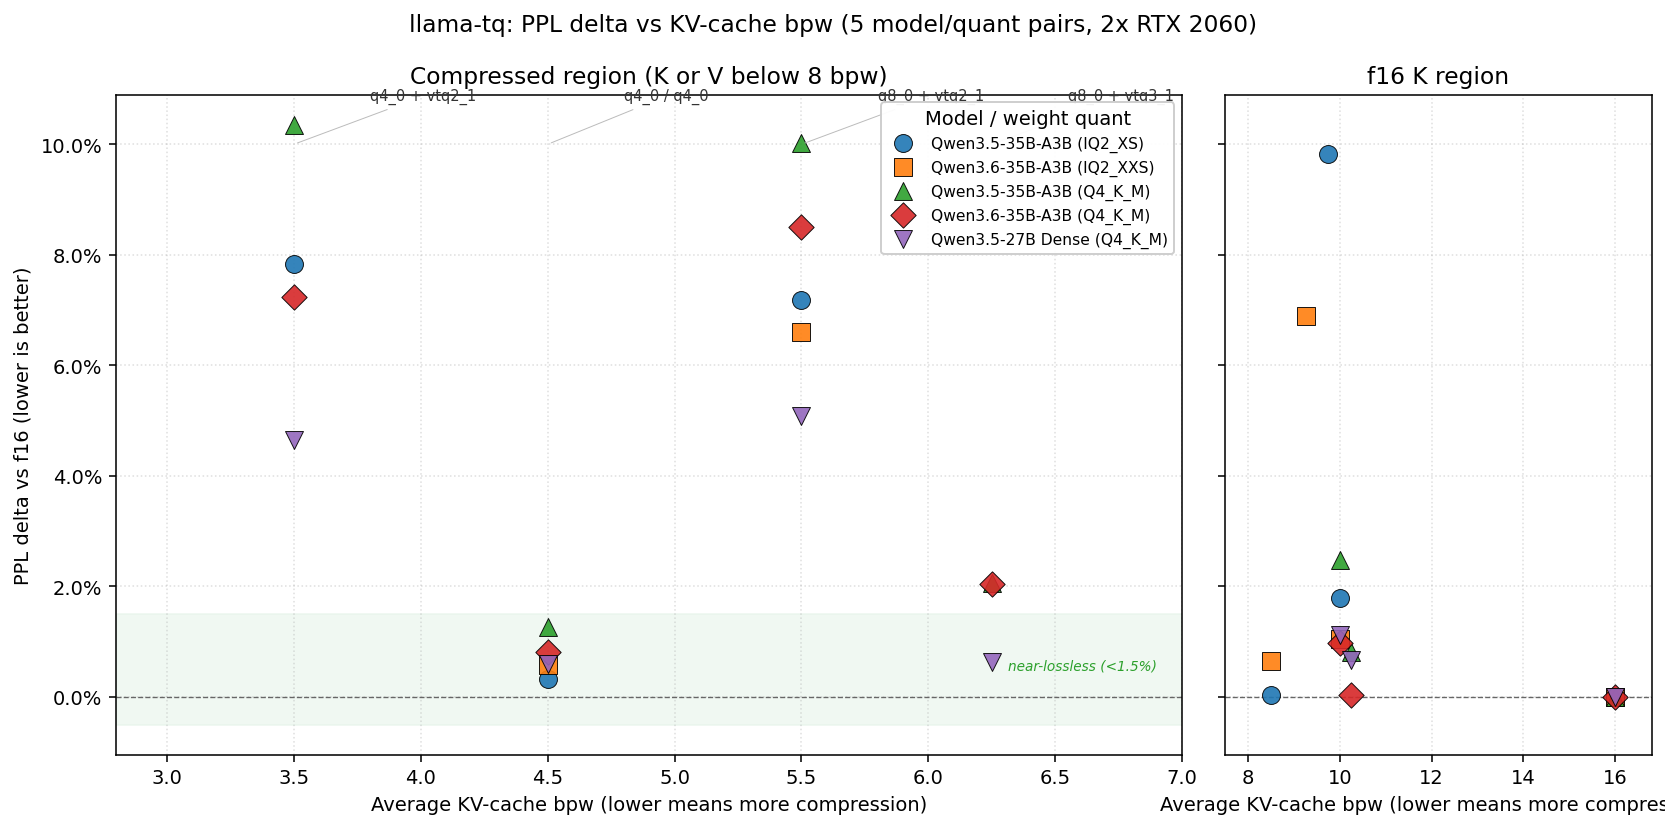
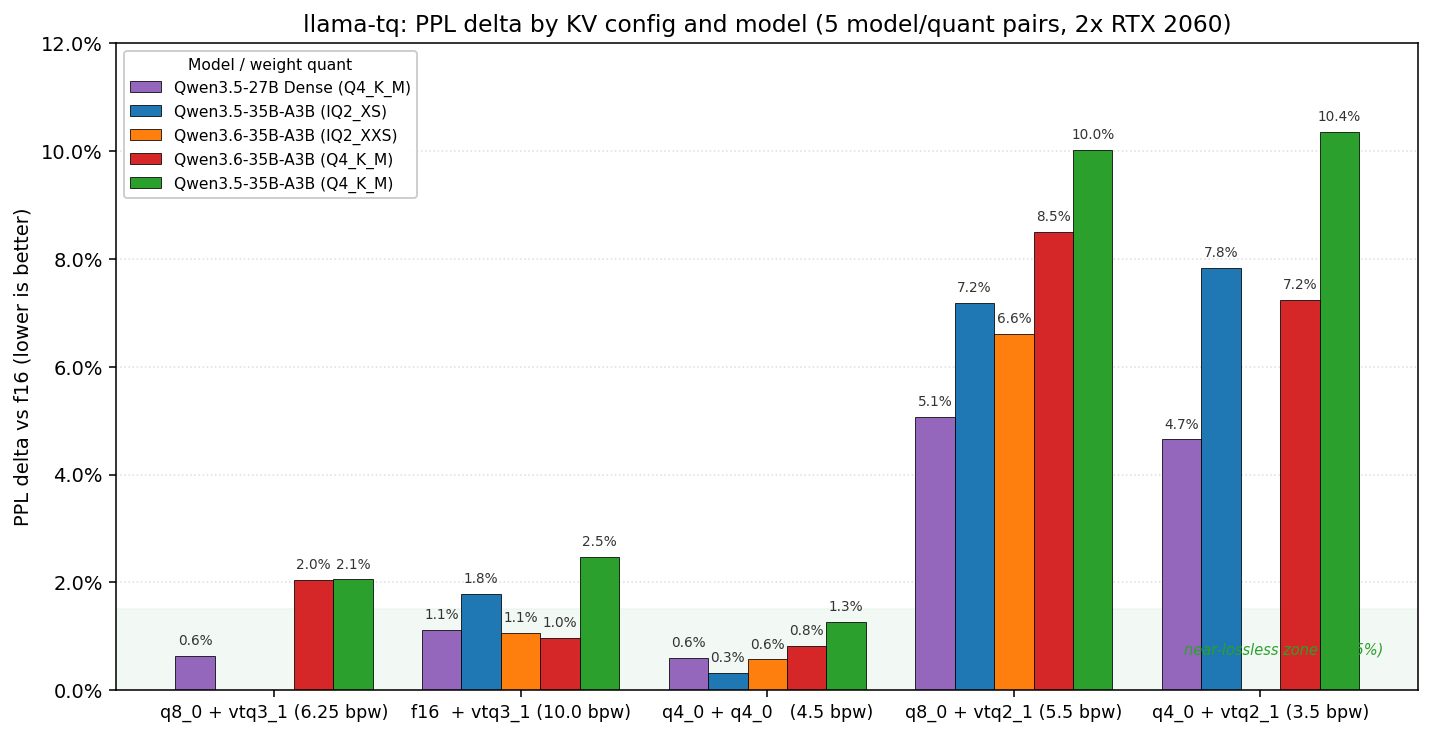
charts: switch to bar charts for readability
- ppl_vs_bpw.png: grouped bar chart (config on x-axis, model = color)
  instead of scatter. Values labeled on top of each bar. Near-lossless
  band highlighted.
- cross_project.png: horizontal bar chart sorted by KV bpw, color = project
  (llama-tq/TheTom/buun). Each row is one explicit config with full label.
  No more overlapping markers or annotations.

diff --git a/bench/plots/gen_charts.py b/bench/plots/gen_charts.py
@@ -45,76 +45,77 @@ def _savefig(name: str, fig):
 # ----------------------------------------------------------------------------
 
 def chart_ppl_vs_bpw():
-    # Two-panel: left = bpw ≤ 7 (compressed region where points cluster),
-    # right = bpw > 7 (f16-K territory, fewer points)
-    fig, (axL, axR) = plt.subplots(1, 2, figsize=(12, 6),
-                                   gridspec_kw={"width_ratios": [3, 1.2]},
-                                   sharey=True)
-
-    markers = {
-        "Qwen3.5-35B-A3B (IQ2_XS)":   ("o", "#1f77b4"),
-        "Qwen3.6-35B-A3B (IQ2_XXS)":  ("s", "#ff7f0e"),
-        "Qwen3.5-35B-A3B (Q4_K_M)":   ("^", "#2ca02c"),
-        "Qwen3.6-35B-A3B (Q4_K_M)":   ("D", "#d62728"),
-        "Qwen3.5-27B Dense (Q4_K_M)": ("v", "#9467bd"),
-    }
-
+    # Grouped bar chart: one group per KV config (sorted by typical avg bpw),
+    # bars within a group = models. Immediately readable.
     have_ppl = df.dropna(subset=["ppl_delta_pct"]).copy()
-    # Rename 'Qwen3.5-27B-Dense' → 'Qwen3.5-27B Dense' for consistency
     have_ppl["model_label"] = have_ppl["model_label"].str.replace(
         "Qwen3.5-27B-Dense", "Qwen3.5-27B Dense"
     )
 
-    for label, (marker, color) in markers.items():
-        sub = have_ppl[have_ppl["model_label"] == label]
-        if sub.empty:
-            continue
-        for ax in (axL, axR):
-            ax.scatter(
-                sub["avg_bpw"], sub["ppl_delta_pct"],
-                marker=marker, color=color, s=85, alpha=0.9,
-                label=label if ax is axL else None,
-                edgecolors="black", linewidth=0.5, zorder=3,
-            )
-
-    # Shade "near-lossless" band on left panel
-    axL.axhspan(-0.5, 1.5, color="#e6f4ea", alpha=0.6, zorder=1,
-                label="_nolegend_")
-    axL.text(6.9, 0.5, "near-lossless (<1.5%)", fontsize=7, color="#2ca02c",
-             ha="right", style="italic")
-
-    # Annotate typical configs (one per cluster, placed outside the point)
-    typical = {
-        3.5:  ("q4_0 + vtq2_1", "3.5 bpw", (0.3, 0.8)),
-        5.5:  ("q8_0 + vtq2_1", "5.5 bpw", (0.3, 0.6)),
-        6.25: ("q8_0 + vtq3_1", "6.25 bpw", (0.3, -1.2)),
-        4.5:  ("q4_0 / q4_0", "4.5 bpw", (0.3, -1.0)),
+    # Only show the representative asymmetric/clean configs (skip broken
+    # KTQ+VTQ and skip redundant f16/f16 baseline which is always 0%)
+    interesting = [
+        ("q8_0/vtq3_1", "q8_0 + vtq3_1 (6.25 bpw)"),
+        ("f16/vtq3_1",  "f16  + vtq3_1 (10.0 bpw)"),
+        ("q4_0/q4_0",   "q4_0 + q4_0   (4.5 bpw)"),
+        ("q8_0/vtq2_1", "q8_0 + vtq2_1 (5.5 bpw)"),
+        ("q4_0/vtq2_1", "q4_0 + vtq2_1 (3.5 bpw)"),
+    ]
+    model_order = [
+        "Qwen3.5-27B Dense (Q4_K_M)",
+        "Qwen3.5-35B-A3B (IQ2_XS)",
+        "Qwen3.6-35B-A3B (IQ2_XXS)",
+        "Qwen3.6-35B-A3B (Q4_K_M)",
+        "Qwen3.5-35B-A3B (Q4_K_M)",
+    ]
+    model_colors = {
+        "Qwen3.5-27B Dense (Q4_K_M)": "#9467bd",
+        "Qwen3.5-35B-A3B (IQ2_XS)":   "#1f77b4",
+        "Qwen3.6-35B-A3B (IQ2_XXS)":  "#ff7f0e",
+        "Qwen3.6-35B-A3B (Q4_K_M)":   "#d62728",
+        "Qwen3.5-35B-A3B (Q4_K_M)":   "#2ca02c",
     }
-    for bpw, (text, _, offset) in typical.items():
-        axL.annotate(text, xy=(bpw, 10), xytext=(bpw + offset[0], 10.8),
-                     fontsize=7.5, color="#333", ha="left",
-                     arrowprops=dict(arrowstyle="-", color="#bbb", lw=0.5))
 
-    for ax in (axL, axR):
-        ax.axhline(0, color="#666", lw=0.7, ls="--", zorder=2)
-        ax.set_xlabel("Average KV-cache bpw (lower means more compression)")
-        ax.yaxis.set_major_formatter(mtick.PercentFormatter(decimals=1))
-        ax.grid(True, ls=":", alpha=0.4, zorder=0)
+    fig, ax = plt.subplots(figsize=(12, 6))
+    n_models = len(model_order)
+    n_configs = len(interesting)
+    width = 0.16
+    x_base = range(n_configs)
 
-    axL.set_ylabel("PPL delta vs f16 (lower is better)")
-    axL.set_xlim(2.8, 7)
-    axR.set_xlim(7.5, 16.8)
-    axL.set_title("Compressed region (K or V below 8 bpw)")
-    axR.set_title("f16 K region")
+    for i, model in enumerate(model_order):
+        vals = []
+        for cfg, _ in interesting:
+            sub = have_ppl[(have_ppl["model_label"] == model)
+                           & (have_ppl["config"] == cfg)]
+            vals.append(sub["ppl_delta_pct"].iloc[0] if not sub.empty else 0)
+        offsets = [xi + (i - (n_models - 1) / 2) * width for xi in x_base]
+        bars = ax.bar(offsets, vals, width, color=model_colors[model],
+                      edgecolor="black", linewidth=0.4, label=model)
+        # Put value on top of each bar
+        for bar, v in zip(bars, vals):
+            if v == 0:
+                continue
+            ax.text(bar.get_x() + bar.get_width() / 2, v + 0.15,
+                    f"{v:.1f}%", ha="center", va="bottom",
+                    fontsize=7, color="#333")
 
-    # Hide duplicated y-axis on right panel
-    axR.tick_params(labelleft=False)
+    # Near-lossless band
+    ax.axhspan(0, 1.5, color="#e6f4ea", alpha=0.5, zorder=0)
+    ax.text(n_configs - 0.5, 0.75, "near-lossless zone (<1.5%)",
+            fontsize=7.5, color="#2ca02c", ha="right",
+            style="italic", va="center")
 
-    fig.suptitle("llama-tq: PPL delta vs KV-cache bpw (5 model/quant pairs, 2x RTX 2060)",
-                 fontsize=12, y=0.98)
-    axL.legend(loc="upper right", fontsize=8, framealpha=0.95,
-               title="Model / weight quant")
-    fig.tight_layout()
+    ax.set_xticks(list(x_base))
+    ax.set_xticklabels([label for _, label in interesting], fontsize=9)
+    ax.set_ylabel("PPL delta vs f16 (lower is better)")
+    ax.yaxis.set_major_formatter(mtick.PercentFormatter(decimals=1))
+    ax.set_title("llama-tq: PPL delta by KV config and model "
+                 "(5 model/quant pairs, 2x RTX 2060)")
+    ax.legend(loc="upper left", fontsize=8, title="Model / weight quant",
+              title_fontsize=8, framealpha=0.95)
+    ax.grid(True, axis="y", ls=":", alpha=0.4, zorder=0)
+    ax.set_axisbelow(True)
+    ax.set_ylim(0, max(12, ax.get_ylim()[1]))
 
     _savefig("ppl_vs_bpw.png", fig)
 
@@ -157,116 +158,103 @@ def chart_decode_throughput():
 # ----------------------------------------------------------------------------
 
 def chart_cross_project():
-    # Show only the representative config per model-quant for llama-tq so the
-    # scatter isn't dominated by near-duplicate points.
+    # Horizontal bar chart: each row is one specific config, sorted by bpw
+    # (most compressed at top). Color = project. No scatter, no overlap.
     have_ppl = df.dropna(subset=["ppl_delta_pct"]).copy()
     have_ppl["model_label"] = have_ppl["model_label"].str.replace(
         "Qwen3.5-27B-Dense", "Qwen3.5-27B Dense"
     )
 
-    # Use the two flagship configs only (vtq3_1 and vtq2_1 with q8_0 K)
-    flagship = have_ppl[
-        have_ppl["config"].isin(["q8_0/vtq3_1", "q8_0/vtq2_1"])
-    ].copy()
+    # Build comparison rows: each row = (label, bpw, ppl_delta, project)
+    rows = []
 
-    fig, ax = plt.subplots(figsize=(11, 6.5))
+    # Pick representative llama-tq configs: two flagship configs × models
+    flagship_configs = ["q8_0/vtq3_1", "q8_0/vtq2_1"]
+    for cfg in flagship_configs:
+        sub = have_ppl[have_ppl["config"] == cfg]
+        for _, r in sub.iterrows():
+            cfg_short = cfg.replace("/", " + ")
+            model_short = r["model_label"].replace("Qwen3.", "Q3.").replace(
+                " Dense", " D").replace("-A3B", "")
+            rows.append({
+                "label": f"llama-tq  {cfg_short}  ({r['avg_bpw']:.2f} bpw)  on {model_short}",
+                "bpw": r["avg_bpw"],
+                "ppl_delta": r["ppl_delta_pct"],
+                "project": "llama-tq",
+            })
 
-    # Per-model colors for llama-tq
-    model_colors = {
-        "Qwen3.5-35B-A3B (IQ2_XS)":   "#1f77b4",
-        "Qwen3.6-35B-A3B (IQ2_XXS)":  "#ff7f0e",
-        "Qwen3.5-35B-A3B (Q4_K_M)":   "#2ca02c",
-        "Qwen3.6-35B-A3B (Q4_K_M)":   "#d62728",
-        "Qwen3.5-27B Dense (Q4_K_M)": "#9467bd",
+    # TheTom configs
+    for _, r in other[other["project"] == "TheTom"].iterrows():
+        rows.append({
+            "label": f"TheTom    {r['config']}  ({r['avg_bpw']:.2f} bpw)  on Q3.5-35B MoE",
+            "bpw": r["avg_bpw"],
+            "ppl_delta": r["ppl_delta_pct"],
+            "project": "TheTom",
+        })
+
+    # buun configs
+    for _, r in other[other["project"] == "buun"].iterrows():
+        rows.append({
+            "label": f"buun      {r['config']}  ({r['avg_bpw']:.2f} bpw)  on Q3.5-27B",
+            "bpw": r["avg_bpw"],
+            "ppl_delta": r["ppl_delta_pct"],
+            "project": "buun",
+        })
+
+    # Sort: by bpw ascending (most compressed at top), then by PPL delta
+    rows.sort(key=lambda x: (x["bpw"], x["ppl_delta"]))
+
+    project_colors = {
+        "llama-tq": "#1f77b4",
+        "TheTom":   "#ff7f0e",
+        "buun":     "#2ca02c",
     }
 
-    # Plot llama-tq points, one marker per model, split by config
-    for label, color in model_colors.items():
-        sub = flagship[flagship["model_label"] == label]
-        if sub.empty:
-            continue
-        # vtq3_1 = circle, vtq2_1 = square (so reader can distinguish configs)
-        v3 = sub[sub["config"] == "q8_0/vtq3_1"]
-        v2 = sub[sub["config"] == "q8_0/vtq2_1"]
-        ax.scatter(v3["avg_bpw"], v3["ppl_delta_pct"],
-                   marker="o", color=color, s=80, alpha=0.9,
-                   edgecolors="black", linewidth=0.5, zorder=4)
-        ax.scatter(v2["avg_bpw"], v2["ppl_delta_pct"],
-                   marker="s", color=color, s=80, alpha=0.9,
-                   edgecolors="black", linewidth=0.5, zorder=4)
+    fig, ax = plt.subplots(figsize=(12, max(6, len(rows) * 0.38)))
+    y_positions = list(range(len(rows)))
+    labels = [r["label"] for r in rows]
+    values = [r["ppl_delta"] for r in rows]
+    colors = [project_colors[r["project"]] for r in rows]
 
-    # TheTom (star)
-    tt = other[other["project"] == "TheTom"]
-    ax.scatter(tt["avg_bpw"], tt["ppl_delta_pct"],
-               marker="*", color="#ff7f0e", s=240, alpha=0.9,
-               edgecolors="black", linewidth=0.7, zorder=5,
-               label="TheTom (M5 Max, Q4_K_M MoE)")
-    for _, row in tt.iterrows():
-        ax.annotate(
-            row["config"],
-            xy=(row["avg_bpw"], row["ppl_delta_pct"]),
-            xytext=(9, 6), textcoords="offset points",
-            fontsize=8, color="#cc5500", fontweight="bold",
-        )
+    bars = ax.barh(y_positions, values, color=colors,
+                   edgecolor="black", linewidth=0.4, height=0.7)
 
-    # buun (diamond)
-    bb = other[other["project"] == "buun"]
-    ax.scatter(bb["avg_bpw"], bb["ppl_delta_pct"],
-               marker="D", color="#2ca02c", s=160, alpha=0.9,
-               edgecolors="black", linewidth=0.7, zorder=5,
-               label="buun TCQ (RTX 3090, Q6_K)")
-    for _, row in bb.iterrows():
-        ax.annotate(
-            row["config"],
-            xy=(row["avg_bpw"], row["ppl_delta_pct"]),
-            xytext=(9, -12), textcoords="offset points",
-            fontsize=8, color="#206020", fontweight="bold",
-        )
+    # Put PPL delta value at the end of each bar
+    for bar, val in zip(bars, values):
+        x_pos = bar.get_width()
+        ax.text(x_pos + (0.2 if val >= 0 else -0.2),
+                bar.get_y() + bar.get_height() / 2,
+                f"{val:+.2f}%" if abs(val) < 1 else f"{val:+.1f}%",
+                va="center", ha="left" if val >= 0 else "right",
+                fontsize=8, color="#222")
 
-    # Custom legend: model colors + project markers (handmade so it's readable)
-    from matplotlib.lines import Line2D
-    model_handles = [
-        Line2D([0], [0], marker="o", color="w", markerfacecolor=c,
-               markeredgecolor="black", markersize=9, label=m)
-        for m, c in model_colors.items()
+    # Near-lossless band
+    ax.axvspan(-0.5, 1.5, color="#e6f4ea", alpha=0.5, zorder=0)
+
+    ax.set_yticks(y_positions)
+    ax.set_yticklabels(labels, fontsize=9, family="monospace")
+    ax.invert_yaxis()  # Top = most compressed
+    ax.set_xlabel("PPL delta vs f16 (lower is better)")
+    ax.xaxis.set_major_formatter(mtick.PercentFormatter(decimals=1))
+    ax.set_title("Cross-project PPL comparison (sorted by KV bpw, most compressed at top)")
+    ax.grid(True, axis="x", ls=":", alpha=0.4, zorder=0)
+    ax.axvline(0, color="#666", lw=0.7)
+    ax.set_axisbelow(True)
+
+    # Legend: project colors
+    from matplotlib.patches import Patch
+    legend_handles = [
+        Patch(facecolor=c, edgecolor="black", label=p)
+        for p, c in project_colors.items()
     ]
-    config_handles = [
-        Line2D([0], [0], marker="o", color="w", markerfacecolor="#888",
-               markeredgecolor="black", markersize=9,
-               label="llama-tq: q8_0 + vtq3_1"),
-        Line2D([0], [0], marker="s", color="w", markerfacecolor="#888",
-               markeredgecolor="black", markersize=9,
-               label="llama-tq: q8_0 + vtq2_1"),
-        Line2D([0], [0], marker="*", color="w", markerfacecolor="#ff7f0e",
-               markeredgecolor="black", markersize=14,
-               label="TheTom (M5 Max, Q4_K_M MoE)"),
-        Line2D([0], [0], marker="D", color="w", markerfacecolor="#2ca02c",
-               markeredgecolor="black", markersize=10,
-               label="buun TCQ (RTX 3090, Q6_K)"),
-    ]
-    leg_models = ax.legend(handles=model_handles, loc="upper left",
-                           fontsize=8, title="llama-tq: model",
-                           title_fontsize=8, framealpha=0.95)
-    ax.add_artist(leg_models)
-    ax.legend(handles=config_handles, loc="lower left",
-              fontsize=8, title="Config / project", title_fontsize=8,
-              framealpha=0.95)
+    ax.legend(handles=legend_handles, loc="lower right",
+              fontsize=9, framealpha=0.95)
 
-    ax.axhline(0, color="#666", lw=0.7, ls="--", zorder=2)
-    ax.axhspan(-0.5, 1.5, color="#e6f4ea", alpha=0.4, zorder=1)
-
-    ax.set_xlabel("Average KV-cache bpw (lower means more compression)")
-    ax.set_ylabel("PPL delta vs f16 (lower is better)")
-    ax.yaxis.set_major_formatter(mtick.PercentFormatter(decimals=1))
-    ax.set_title("Cross-project PPL comparison (different HW/models, indicative only)")
-    ax.grid(True, ls=":", alpha=0.4, zorder=0)
-    ax.set_xlim(2, 7)
-
-    # Caveat below the chart, outside the plotting area
+    # Caveat below chart
     fig.text(
-        0.5, -0.02,
-        "Note: different hardware, model variants, and PPL methodologies. "
-        "buun uses KL divergence on Q6_K; TheTom uses wikitext-2 on Q4_K_M MoE. "
+        0.5, -0.04 / max(1, len(rows) / 15),
+        "Caveat: different hardware, weight quants, and PPL methodologies. "
+        "TheTom uses Q4_K_M MoE on M5 Max. buun uses Q6_K with KL divergence on RTX 3090. "
         "Direct comparison is approximate.",
         ha="center", fontsize=8, color="#555", style="italic",
     )
